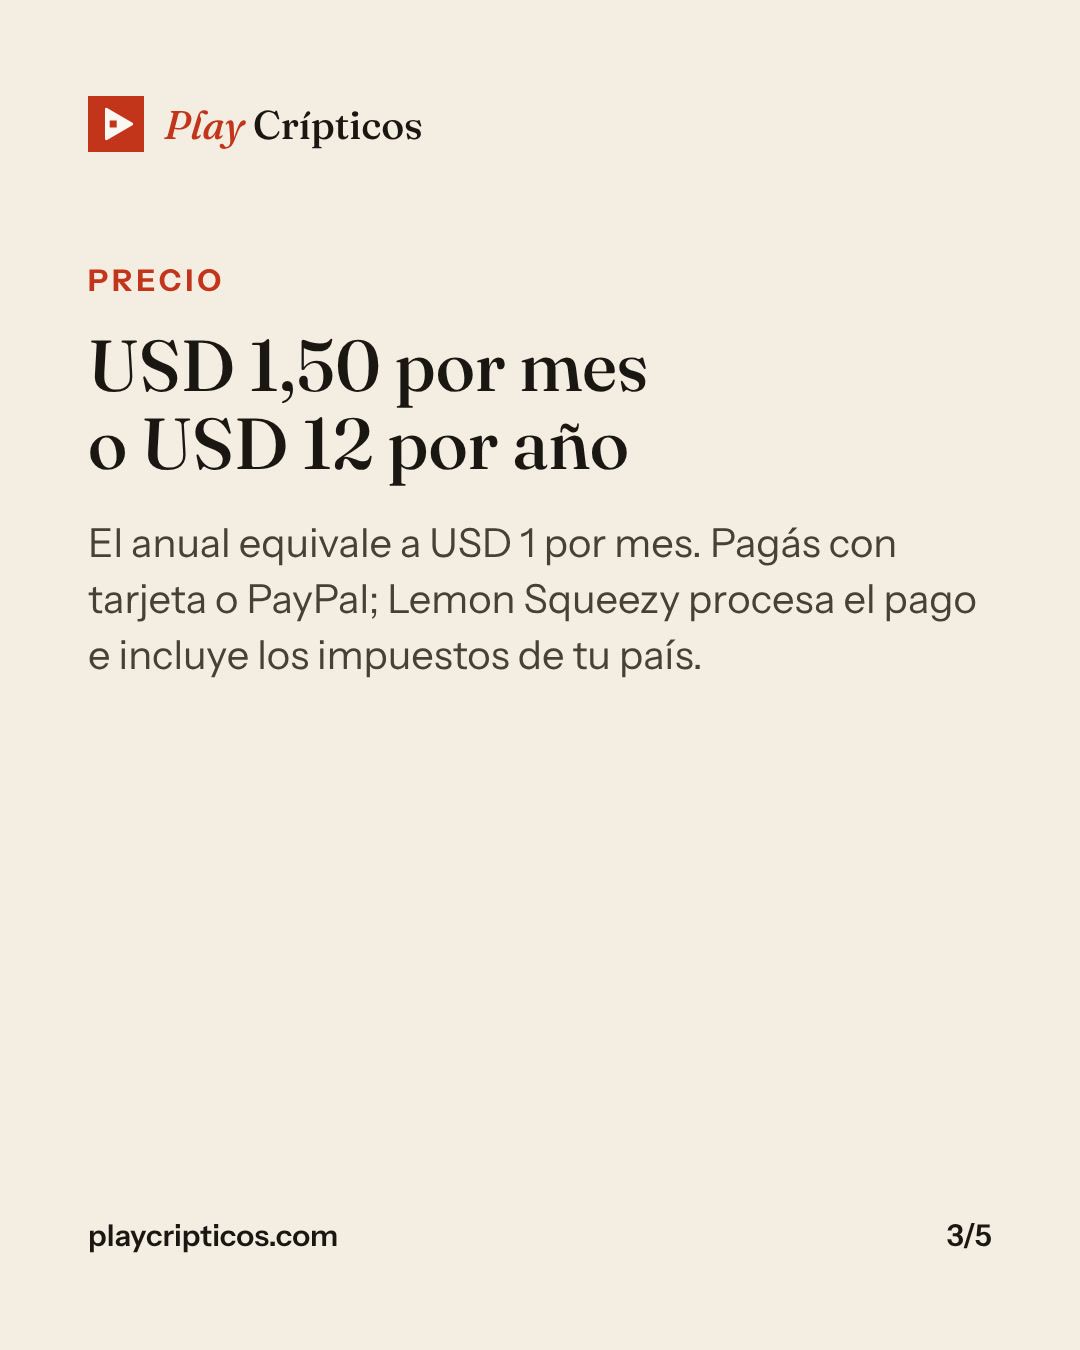
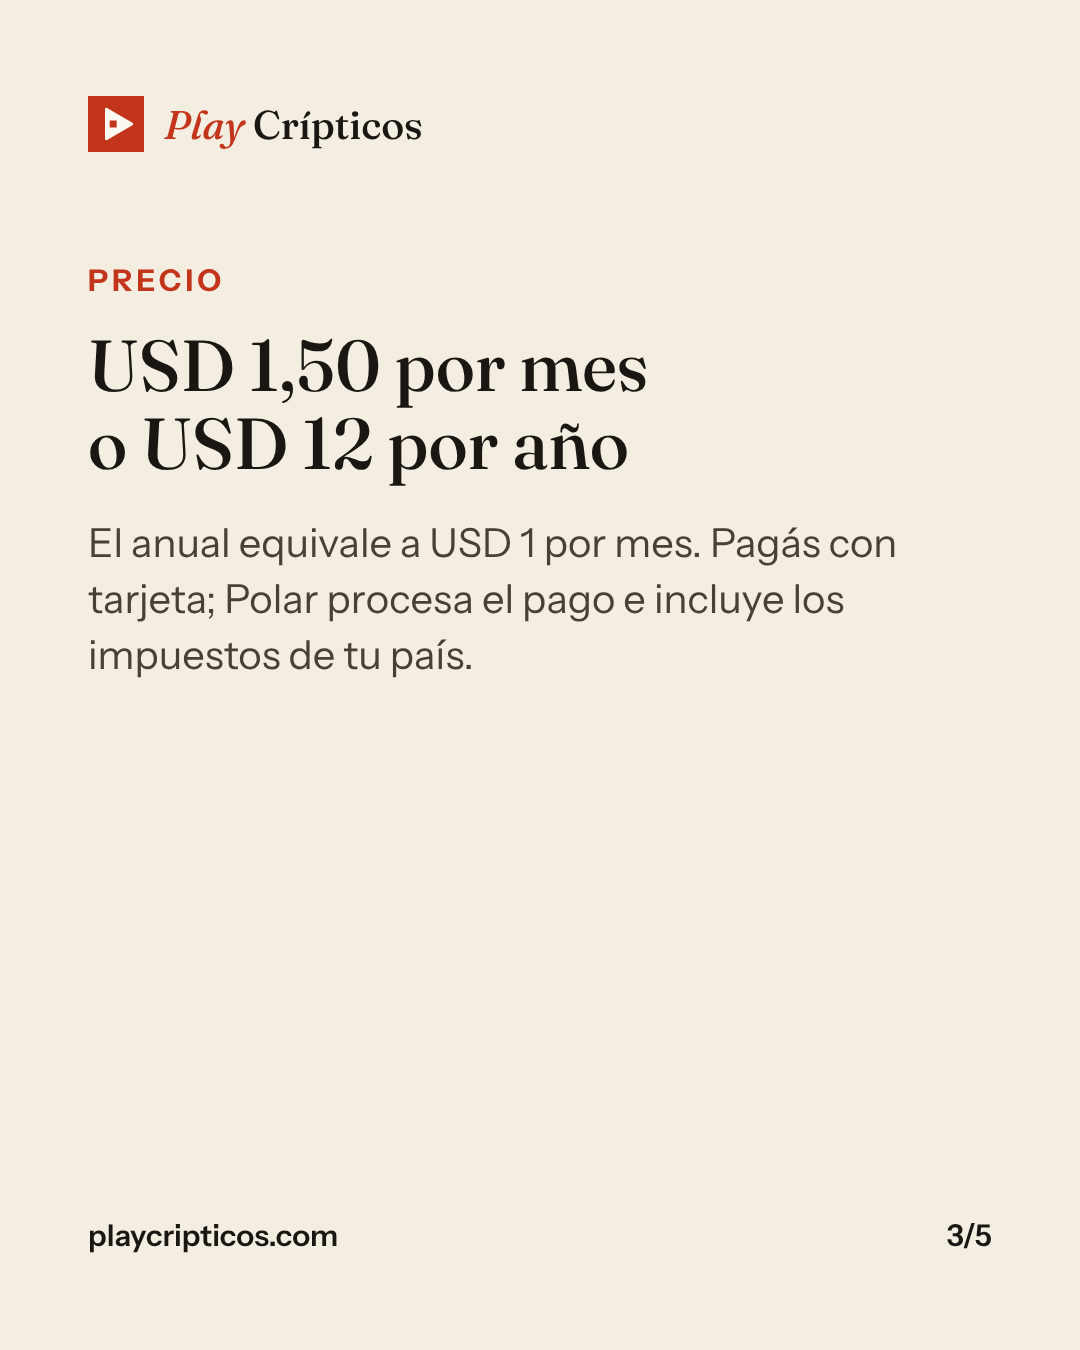
Carrusel Gratis y Plus: pago con Polar y prueba gratis diaria
Claude-Session: https://claude.ai/code/session_01RANp82nuQA9NKtsJ63kbrs

Changed region(s): [[0.0917, 0.4356, 0.9167, 0.4978]]

diff --git a/scripts/social/campana/armar.js b/scripts/social/campana/armar.js
@@ -119,9 +119,9 @@ const CAROUSELS = {
   'k5-gratis-vs-plus': [
     `<div class="k" style="margin-top:auto">Preguntas frecuentes</div><h1 style="margin-top:28px">Gratis y <em>Plus</em>: qué cambia</h1><p style="margin-top:36px">Spoiler: jugar sigue siendo gratis.</p>`,
     `<div class="k" style="margin-top:100px">Comparación</div>${table([['Crípticos sin límite', 'Sí', 'Sí'], ['Diario, torneo y duelos', 'Sí', 'Sí'], ['Perfil, niveles y logros', 'Sí', 'Sí'], ['Sin anuncios', '—', 'Sí'], ['10 Crípticos Plus por día (dif. 4 y 5)', '—', 'Sí'], ['Tu nivel contra la comunidad', '—', 'Sí'], ['Insignia y avatares Plus', '—', 'Sí']], ['', 'Gratis', 'Plus'])}`,
-    `<div class="k" style="margin-top:110px">Precio</div><h2 style="margin-top:28px">USD 1,50 por mes<br>o USD 12 por año</h2><p style="margin-top:32px">El anual equivale a USD 1 por mes. Pagás con tarjeta o PayPal; Lemon Squeezy procesa el pago e incluye los impuestos de tu país.</p>`,
+    `<div class="k" style="margin-top:110px">Precio</div><h2 style="margin-top:28px">USD 1,50 por mes<br>o USD 12 por año</h2><p style="margin-top:32px">El anual equivale a USD 1 por mes. Pagás con tarjeta; Polar procesa el pago e incluye los impuestos de tu país.</p>`,
     `<div class="k" style="margin-top:110px">Sin letra chica</div>${list(['Cancelás cuando quieras y seguís con Plus hasta el final del período pagado', 'Si te arrepentís dentro de los 10 días del primer pago, te devolvemos ese pago', 'Plus no da puntos, pistas ni tiempo extra en torneos ni duelos'], 38)}`,
-    `<div class="k" style="margin-top:auto">Más info</div><h2 style="margin-top:28px">playcripticos.com/es/plus</h2><p style="margin-top:32px">Plus banca el proyecto. Gracias a quienes se suman.</p>`,
+    `<div class="k" style="margin-top:auto">Más info</div><h2 style="margin-top:28px">Probá uno gratis hoy</h2><p style="margin-top:32px">Cada día podés jugar gratis uno de los 10 Crípticos Plus en playcripticos.com/es/plus</p>`,
   ],
   'k6-en-el-telefono': [
     `<div class="k" style="margin-top:auto">Mientras llega la app</div><h1 style="margin-top:28px">Play Crípticos <em>en tu teléfono</em>, hoy</h1><p style="margin-top:36px">Un ícono en tu pantalla de inicio, sin descargar nada.</p>`,
